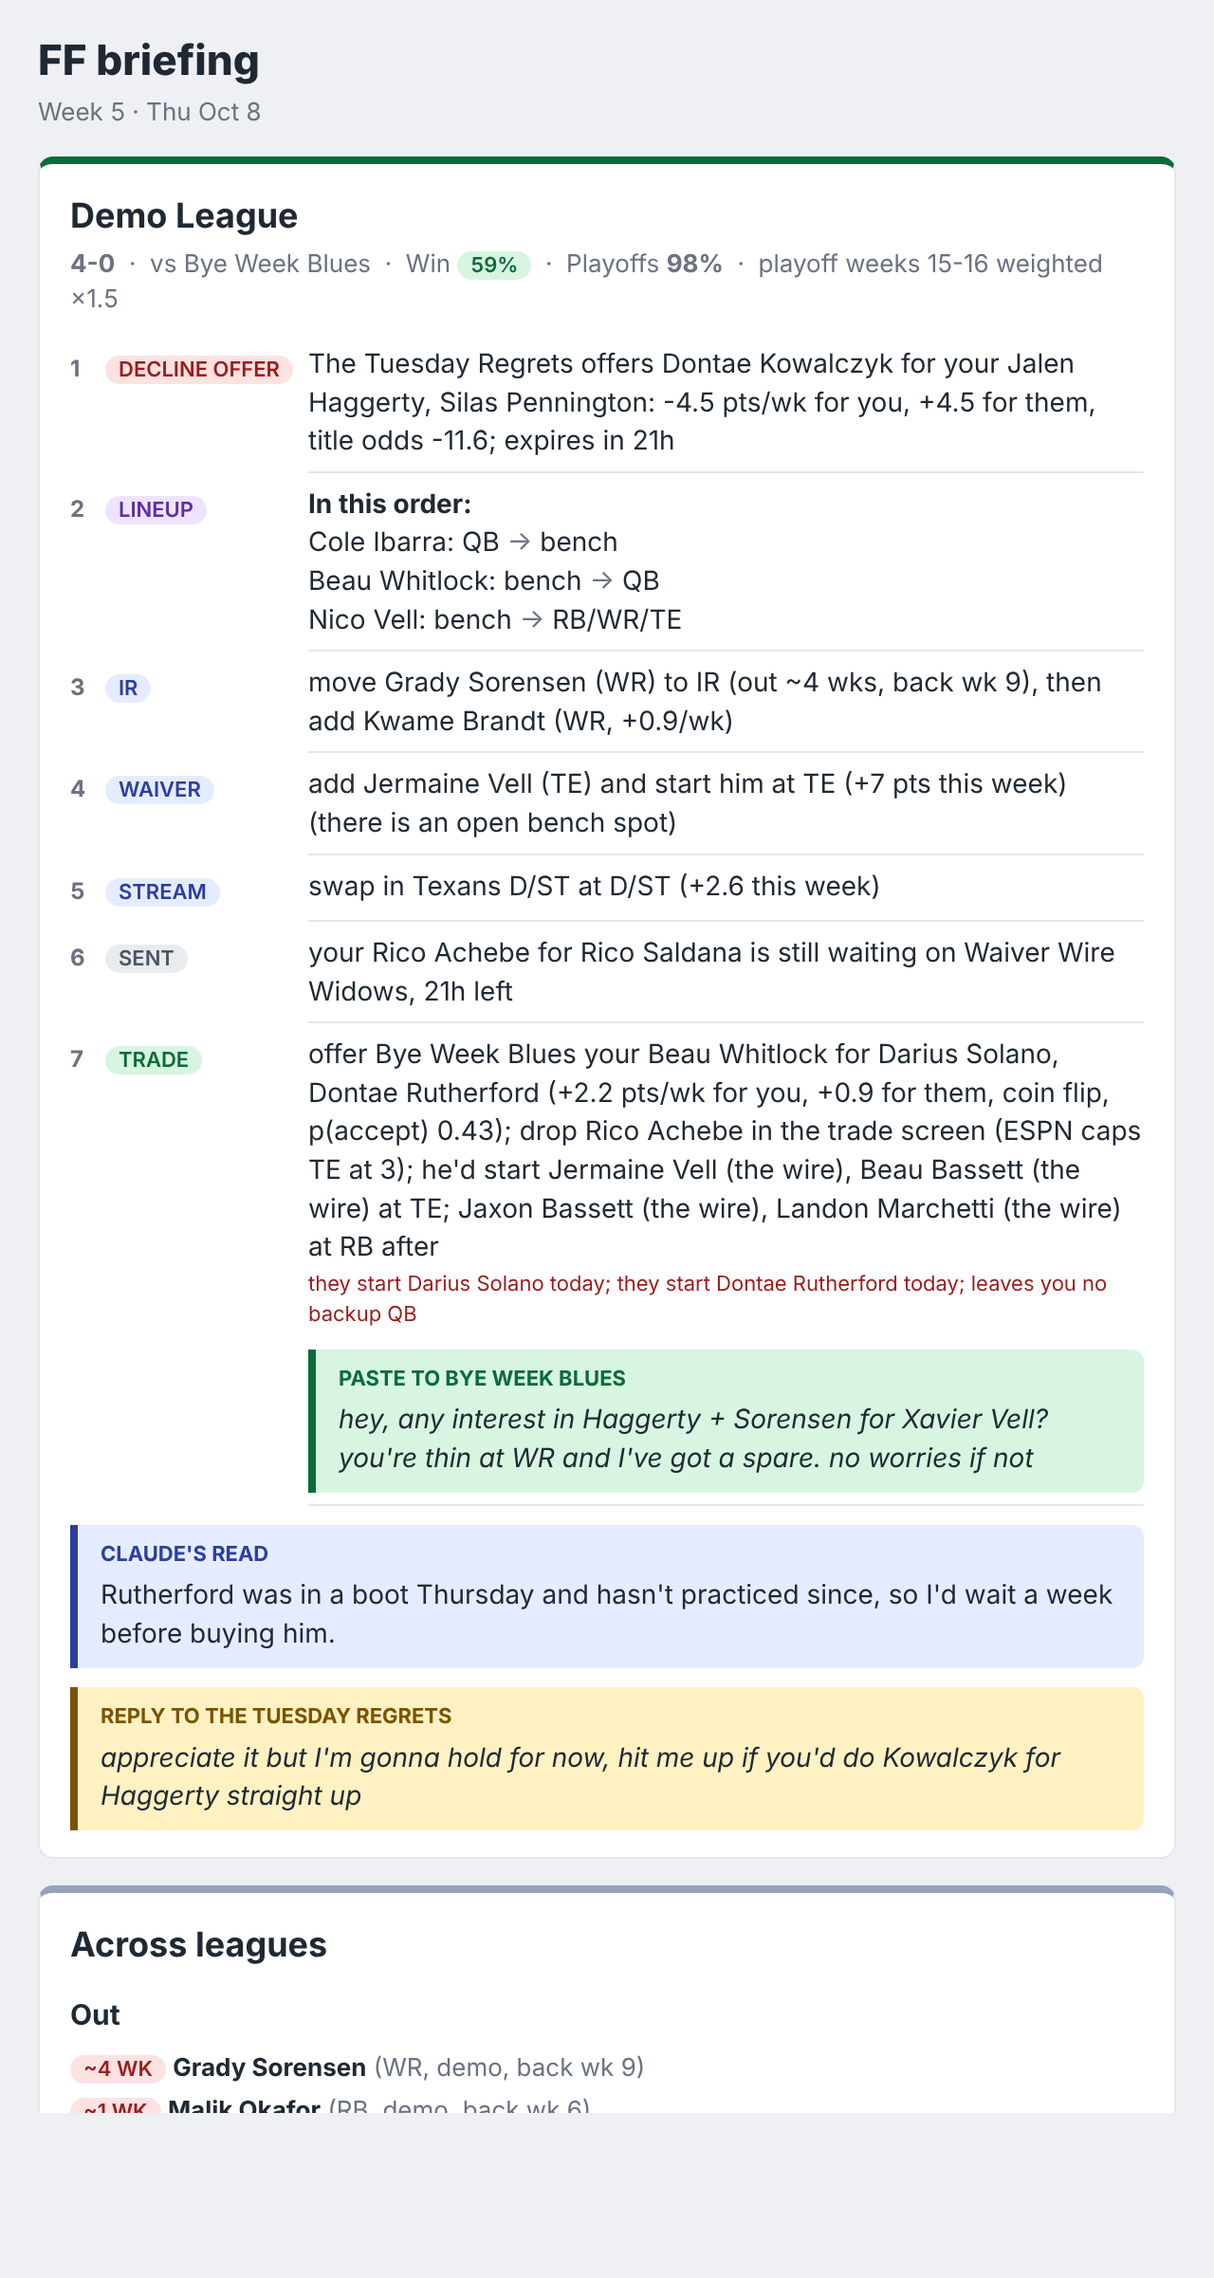
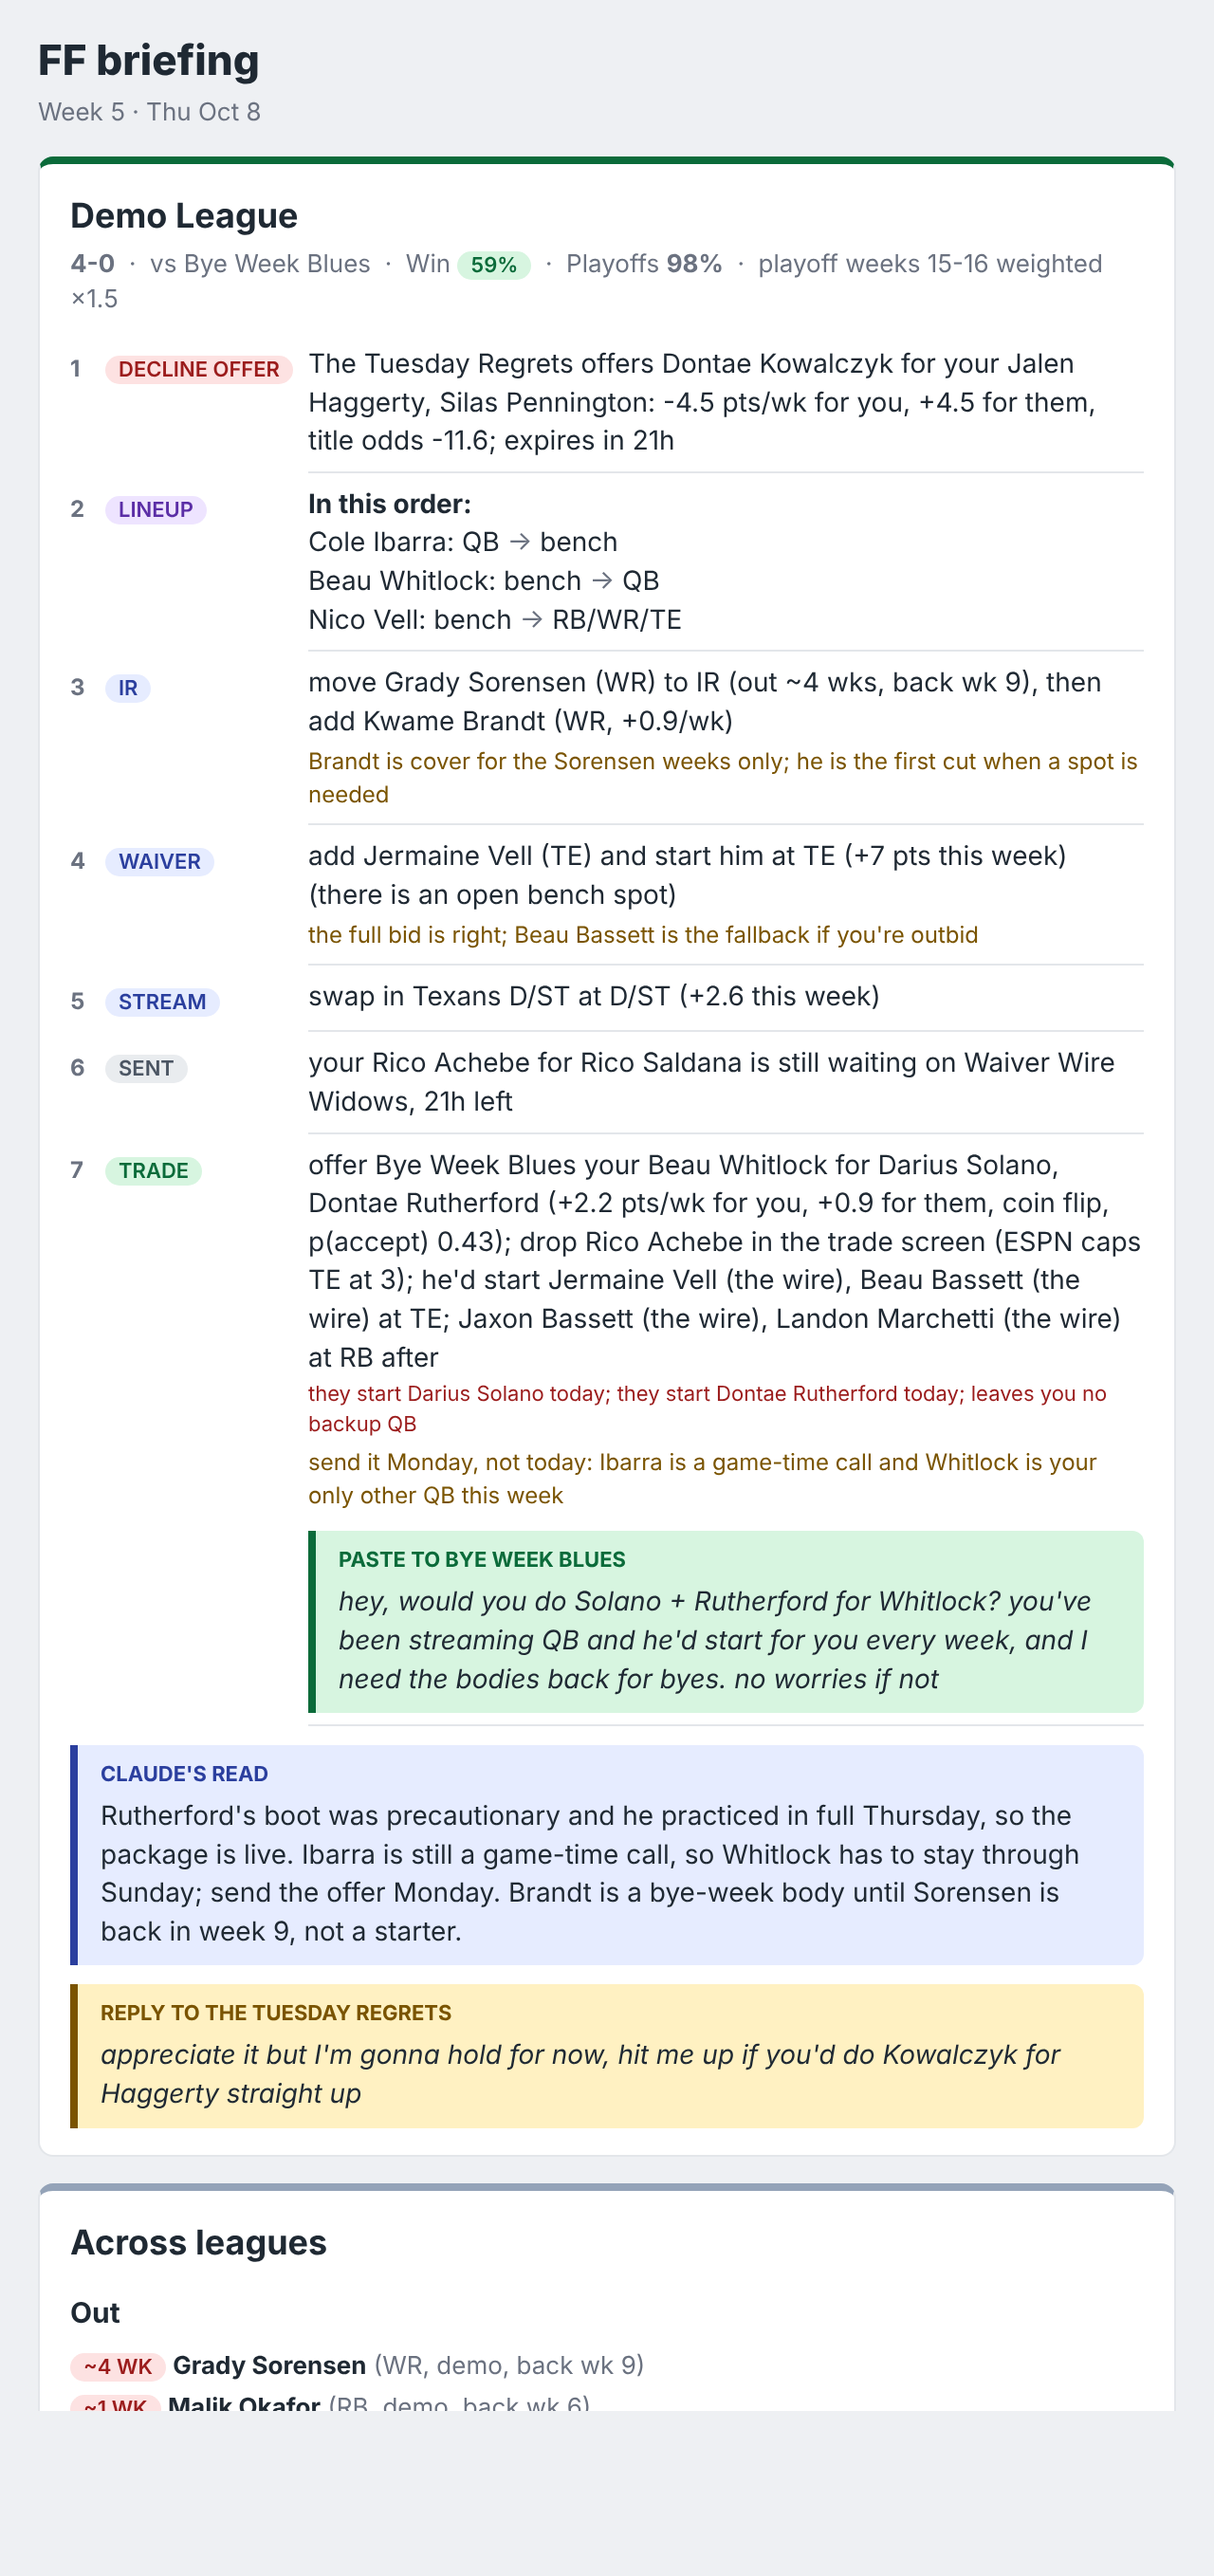
R2: examples/reads.json rules on the current demo card
`bash scripts/screenshots.sh` printed five `reads:` warnings from
`ff render-email`: four rulings keyed by rows no longer on the demo card
(`trade:dontae-rutherford`, `trade:kai-tremblay`, `trade:xavier-vell`,
`waiver:jaxon-bassett`: "no such row") and
"demo.items['trade:darius-solano-dontae-rutherford']: trade row has no
ruling (do / skip / amend)". The paste in the README screenshot offered
Haggerty + Sorensen for Xavier Vell, who is not on the card.

examples/reads.json now rules on the seven ids the current card prints
(offer, IR, waiver and the one trade row; `amend` on the trade so the
demo never writes to data/projlog), with a three-sentence read and a
paste that names Solano, Rutherford and Whitlock, all on the card.
examples/briefing.md, briefing.html, briefing-email.png and packet.json
are the script's output; incoming-terminal.svg did not change.
overrides.json notes were still current and are untouched.

Verified: the script re-run prints no `reads:` or `voice:` line;
tests/test_demo.py gains a test that `read_lint` and `voice_lint` on
examples/reads.json against the demo packet (same overrides, sims=100)
report nothing and every name in the paste and reply is on the card
(the old file fails it with 5 warnings); `uv run pytest -q` 364 passed,
`uv run ruff check` clean, `uv run ff briefing --demo --short` renders.
TODO.md: R2 removed, Docs section reads "(none open)".

Claude-Session: https://claude.ai/code/session_01U7NMZvvFv4gTqTgxxrxF3J

Changed region(s): [[0.0312, 0.0, 0.9688, 0.9367]]

diff --git a/examples/briefing.html b/examples/briefing.html
@@ -4,19 +4,22 @@
 <div style="color:#6b7280;font-size:13px;margin-top:3px"><b>4-0</b> &nbsp;·&nbsp; vs Bye Week Blues &nbsp;·&nbsp; Win <span style="padding:1px 7px;border-radius:9px;white-space:nowrap;font-size:11px;font-weight:600;background:#d7f5e0;color:#0b6b3a">59%</span> &nbsp;·&nbsp; Playoffs <b>98%</b> &nbsp;·&nbsp; playoff weeks 15-16 weighted ×1.5</div>
 <table width="100%" cellpadding="0" cellspacing="0" border="0" style="margin-top:8px"><tr><td valign="top" width="1" style="padding:6px 8px 6px 0;white-space:nowrap"><span style="display:inline-block;min-width:14px;color:#6b7280;font-size:12px;font-weight:700">1</span> <span style="padding:1px 7px;border-radius:9px;white-space:nowrap;font-size:11px;font-weight:600;background:#fde2e2;color:#9b1c1c">DECLINE OFFER</span></td><td valign="top" style="padding:6px 0;font-size:14px;border-bottom:1px solid #e3e6ea">The Tuesday Regrets offers Dontae Kowalczyk for your Jalen Haggerty, Silas Pennington: -4.5 pts/wk for you, +4.5 for them, title odds -11.6; expires in 21h</td></tr>
 <tr><td valign="top" width="1" style="padding:6px 8px 6px 0;white-space:nowrap"><span style="display:inline-block;min-width:14px;color:#6b7280;font-size:12px;font-weight:700">2</span> <span style="padding:1px 7px;border-radius:9px;white-space:nowrap;font-size:11px;font-weight:600;background:#eee4ff;color:#5b2ea6">LINEUP</span></td><td valign="top" style="padding:6px 0;font-size:14px;border-bottom:1px solid #e3e6ea"><b>In this order:</b><br>Cole Ibarra: QB <span style="color:#6b7280">→</span> bench<br>Beau Whitlock: bench <span style="color:#6b7280">→</span> QB<br>Nico Vell: bench <span style="color:#6b7280">→</span> RB/WR/TE</td></tr>
-<tr><td valign="top" width="1" style="padding:6px 8px 6px 0;white-space:nowrap"><span style="display:inline-block;min-width:14px;color:#6b7280;font-size:12px;font-weight:700">3</span> <span style="padding:1px 7px;border-radius:9px;white-space:nowrap;font-size:11px;font-weight:600;background:#e6ecff;color:#2b3f9e">IR</span></td><td valign="top" style="padding:6px 0;font-size:14px;border-bottom:1px solid #e3e6ea">move Grady Sorensen (WR) to IR (out ~4 wks, back wk 9), then add Kwame Brandt (WR, +0.9/wk)</td></tr>
-<tr><td valign="top" width="1" style="padding:6px 8px 6px 0;white-space:nowrap"><span style="display:inline-block;min-width:14px;color:#6b7280;font-size:12px;font-weight:700">4</span> <span style="padding:1px 7px;border-radius:9px;white-space:nowrap;font-size:11px;font-weight:600;background:#e6ecff;color:#2b3f9e">WAIVER</span></td><td valign="top" style="padding:6px 0;font-size:14px;border-bottom:1px solid #e3e6ea">add Jermaine Vell (TE) and start him at TE (+7 pts this week) (there is an open bench spot)</td></tr>
+<tr><td valign="top" width="1" style="padding:6px 8px 6px 0;white-space:nowrap"><span style="display:inline-block;min-width:14px;color:#6b7280;font-size:12px;font-weight:700">3</span> <span style="padding:1px 7px;border-radius:9px;white-space:nowrap;font-size:11px;font-weight:600;background:#e6ecff;color:#2b3f9e">IR</span></td><td valign="top" style="padding:6px 0;font-size:14px;border-bottom:1px solid #e3e6ea">move Grady Sorensen (WR) to IR (out ~4 wks, back wk 9), then add Kwame Brandt (WR, +0.9/wk)<div style="color:#7a5400;font-size:12px;margin-top:3px">Brandt is cover for the Sorensen weeks only; he is the first cut when a spot is needed</div>
+</td></tr>
+<tr><td valign="top" width="1" style="padding:6px 8px 6px 0;white-space:nowrap"><span style="display:inline-block;min-width:14px;color:#6b7280;font-size:12px;font-weight:700">4</span> <span style="padding:1px 7px;border-radius:9px;white-space:nowrap;font-size:11px;font-weight:600;background:#e6ecff;color:#2b3f9e">WAIVER</span></td><td valign="top" style="padding:6px 0;font-size:14px;border-bottom:1px solid #e3e6ea">add Jermaine Vell (TE) and start him at TE (+7 pts this week) (there is an open bench spot)<div style="color:#7a5400;font-size:12px;margin-top:3px">the full bid is right; Beau Bassett is the fallback if you&#x27;re outbid</div>
+</td></tr>
 <tr><td valign="top" width="1" style="padding:6px 8px 6px 0;white-space:nowrap"><span style="display:inline-block;min-width:14px;color:#6b7280;font-size:12px;font-weight:700">5</span> <span style="padding:1px 7px;border-radius:9px;white-space:nowrap;font-size:11px;font-weight:600;background:#e6ecff;color:#2b3f9e">STREAM</span></td><td valign="top" style="padding:6px 0;font-size:14px;border-bottom:1px solid #e3e6ea">swap in Texans D/ST at D/ST (+2.6 this week)</td></tr>
 <tr><td valign="top" width="1" style="padding:6px 8px 6px 0;white-space:nowrap"><span style="display:inline-block;min-width:14px;color:#6b7280;font-size:12px;font-weight:700">6</span> <span style="padding:1px 7px;border-radius:9px;white-space:nowrap;font-size:11px;font-weight:600;background:#e9ecef;color:#4b5563">SENT</span></td><td valign="top" style="padding:6px 0;font-size:14px;border-bottom:1px solid #e3e6ea">your Rico Achebe for Rico Saldana is still waiting on Waiver Wire Widows, 21h left</td></tr>
 <tr><td valign="top" width="1" style="padding:6px 8px 6px 0;white-space:nowrap"><span style="display:inline-block;min-width:14px;color:#6b7280;font-size:12px;font-weight:700">7</span> <span style="padding:1px 7px;border-radius:9px;white-space:nowrap;font-size:11px;font-weight:600;background:#d7f5e0;color:#0b6b3a">TRADE</span></td><td valign="top" style="padding:6px 0;font-size:14px;border-bottom:1px solid #e3e6ea">offer Bye Week Blues your Beau Whitlock for Darius Solano, Dontae Rutherford (+2.2 pts/wk for you, +0.9 for them, coin flip, p(accept) 0.43); drop Rico Achebe in the trade screen (ESPN caps TE at 3); he&#x27;d start Jermaine Vell (the wire), Beau Bassett (the wire) at TE; Jaxon Bassett (the wire), Landon Marchetti (the wire) at RB after<div style="color:#9b1c1c;font-size:11px;margin-top:2px">they start Darius Solano today; they start Dontae Rutherford today; leaves you no backup QB</div>
+<div style="color:#7a5400;font-size:12px;margin-top:3px">send it Monday, not today: Ibarra is a game-time call and Whitlock is your only other QB this week</div>
 <table width="100%" cellpadding="0" cellspacing="0" border="0" style="margin:10px 0 0"><tr><td bgcolor="#d7f5e0" style="border-left:4px solid #0b6b3a;border-radius:0 6px 6px 0;padding:8px 12px"><div style="font-size:11px;font-weight:700;color:#0b6b3a;text-transform:uppercase">Paste to Bye Week Blues</div>
-<div style="font-size:14px;margin-top:3px;font-style:italic">hey, any interest in Haggerty + Sorensen for Xavier Vell? you&#x27;re thin at WR and I&#x27;ve got a spare. no worries if not</div>
+<div style="font-size:14px;margin-top:3px;font-style:italic">hey, would you do Solano + Rutherford for Whitlock? you&#x27;ve been streaming QB and he&#x27;d start for you every week, and I need the bodies back for byes. no worries if not</div>
 </td></tr>
 </table>
 </td></tr>
 </table>
 <table width="100%" cellpadding="0" cellspacing="0" border="0" style="margin:10px 0 0"><tr><td bgcolor="#e6ecff" style="border-left:4px solid #2b3f9e;border-radius:0 6px 6px 0;padding:8px 12px"><div style="font-size:11px;font-weight:700;color:#2b3f9e;text-transform:uppercase">Claude&#x27;s read</div>
-<div style="font-size:14px;margin-top:3px">Rutherford was in a boot Thursday and hasn&#x27;t practiced since, so I&#x27;d wait a week before buying him.</div>
+<div style="font-size:14px;margin-top:3px">Rutherford&#x27;s boot was precautionary and he practiced in full Thursday, so the package is live. Ibarra is still a game-time call, so Whitlock has to stay through Sunday; send the offer Monday. Brandt is a bye-week body until Sorensen is back in week 9, not a starter.</div>
 </td></tr>
 </table>
 <table width="100%" cellpadding="0" cellspacing="0" border="0" style="margin:10px 0 0"><tr><td bgcolor="#fff1c2" style="border-left:4px solid #7a5400;border-radius:0 6px 6px 0;padding:8px 12px"><div style="font-size:11px;font-weight:700;color:#7a5400;text-transform:uppercase">Reply to The Tuesday Regrets</div>
@@ -31,7 +34,7 @@
 </td></tr>
 </table>
 <div style="color:#6b7280;font-size:11px;margin-top:4px">Every roster, waiver and odds table is in the plain-text version of this email.</div>
-<div style="color:#6b7280;font-size:11px;margin-top:4px">Generated 2026-10-08 19:53 · numbers from ff, read from Claude · read-only against ESPN</div>
+<div style="color:#6b7280;font-size:11px;margin-top:4px">Generated 2026-10-08 20:02 · numbers from ff, read from Claude · read-only against ESPN</div>
 </td></tr>
 </table>
 </td></tr>

diff --git a/tests/test_demo.py b/tests/test_demo.py
@@ -1,6 +1,7 @@
 """`ff briefing --demo` and friends run end to end with no credentials, no leagues.toml and no network."""
 import json
 import re
+from pathlib import Path
 
 from typer.testing import CliRunner
 
@@ -40,3 +41,24 @@ def test_demo_overrides(tmp_path):
     p = json.load(open(r.output.strip()))
     me = next(x for x in p["leagues"][0]["roster"] if x["espn_id"] == 100)
     assert me["p_zero"] == 1.0 and me["sources"]["override_note"] == "ruled out (demo)"
+
+
+EXAMPLES = Path(__file__).resolve().parents[1] / "examples"
+
+
+def test_examples_reads_rule_on_the_current_demo_card():
+    """`examples/reads.json` is the one hand-written input in examples/; `scripts/screenshots.sh` renders it against the
+    demo packet. It went stale once (TODO R2: the scan moved to a new package, so the trade row was unruled and the
+    paste named a player no longer on the card). Same overrides as the script, so the row ids are the ones it renders."""
+    from ff import demo, report
+    reads = json.load(open(EXAMPLES / "reads.json"))
+    p = demo.build_packet(str(EXAMPLES / "overrides.json"), sims=100, write=False)
+    assert report.read_lint(p, reads) == []
+    assert report.voice_lint(reads) == []
+    rows = report.todos(p["leagues"][0])
+    assert any(x["kind"] == "trade" for x in rows), "the demo card should carry a trade row for the example to rule on"
+    assert len(reads["demo"]["items"]) >= 2, "the example should show more than one ruling"
+    card = report.action_card(p, reads, show_ids=False)
+    for field in ("paste", "reply"):
+        for name in re.findall(r"\b[A-Z][a-z]{2,}\b", reads["demo"][field]):
+            assert name in card, f"reads.json {field} names {name}, who is not on the card"

diff --git a/examples/briefing.md b/examples/briefing.md
@@ -5,14 +5,14 @@ _4-0 · vs Bye Week Blues · win 59% · playoffs 97.6% · title 21.4%_
 
 - **Incoming offer (DECLINE):** The Tuesday Regrets offers Dontae Kowalczyk for your Jalen Haggerty, Silas Pennington: -4.5 pts/wk for you, +4.5 for them, title odds -11.6; expires in 21h
 - **Lineup (in order):** Cole Ibarra: QB → bench · Beau Whitlock: bench → QB · Nico Vell: bench → RB/WR/TE
-- **IR:** move Grady Sorensen (WR) to IR (out ~4 wks, back wk 9), then add Kwame Brandt (WR, +0.9/wk)
-- **Waiver:** add Jermaine Vell (TE) and start him at TE (+7 pts this week) (there is an open bench spot)
+- **IR:** move Grady Sorensen (WR) to IR (out ~4 wks, back wk 9), then add Kwame Brandt (WR, +0.9/wk) — **note:** Brandt is cover for the Sorensen weeks only; he is the first cut when a spot is needed
+- **Waiver:** add Jermaine Vell (TE) and start him at TE (+7 pts this week) (there is an open bench spot) — **note:** the full bid is right; Beau Bassett is the fallback if you're outbid
 - **Stream:** swap in Texans D/ST at D/ST (+2.6 this week)
 - **Already sent:** your Rico Achebe for Rico Saldana is still waiting on Waiver Wire Widows, 21h left
-- **Trade (worth sending):** offer Bye Week Blues your Beau Whitlock for Darius Solano, Dontae Rutherford (+2.2 pts/wk for you, +0.9 for them, coin flip, p(accept) 0.43); drop Rico Achebe in the trade screen (ESPN caps TE at 3); he'd start Jermaine Vell (the wire), Beau Bassett (the wire) at TE; Jaxon Bassett (the wire), Landon Marchetti (the wire) at RB after — they start Darius Solano today; they start Dontae Rutherford today; leaves you no backup QB
+- **Trade (worth sending):** offer Bye Week Blues your Beau Whitlock for Darius Solano, Dontae Rutherford (+2.2 pts/wk for you, +0.9 for them, coin flip, p(accept) 0.43); drop Rico Achebe in the trade screen (ESPN caps TE at 3); he'd start Jermaine Vell (the wire), Beau Bassett (the wire) at TE; Jaxon Bassett (the wire), Landon Marchetti (the wire) at RB after — they start Darius Solano today; they start Dontae Rutherford today; leaves you no backup QB — **note:** send it Monday, not today: Ibarra is a game-time call and Whitlock is your only other QB this week
 
-**Claude's read:** Rutherford was in a boot Thursday and hasn't practiced since, so I'd wait a week before buying him.  
-**Paste to Bye Week Blues:** "hey, any interest in Haggerty + Sorensen for Xavier Vell? you're thin at WR and I've got a spare. no worries if not"  
+**Claude's read:** Rutherford's boot was precautionary and he practiced in full Thursday, so the package is live. Ibarra is still a game-time call, so Whitlock has to stay through Sunday; send the offer Monday. Brandt is a bye-week body until Sorensen is back in week 9, not a starter.  
+**Paste to Bye Week Blues:** "hey, would you do Solano + Rutherford for Whitlock? you've been streaming QB and he'd start for you every week, and I need the bodies back for byes. no worries if not"  
 **Reply to The Tuesday Regrets:** "appreciate it but I'm gonna hold for now, hit me up if you'd do Kowalczyk for Haggerty straight up"  
 
 **Out:** Grady Sorensen out ~4 wks, back wk 9 (demo); Malik Okafor out ~1 wk, back wk 6 (demo)  

diff --git a/TODO.md b/TODO.md
@@ -69,9 +69,4 @@ Rules that hold for every item: read-only against ESPN; code owns numbers, Claud
 
 ## Docs
 
-- [ ] **R2 (XS). `examples/reads.json` rules on the September card.** `scripts/screenshots.sh` regenerated
-  `examples/` on 2026-10-08 (R1) and the scan now proposes a different package (`trade:darius-solano-dontae-rutherford`),
-  so `render-email` warns that the trade row is unruled and the paste in the README screenshot names Xavier Vell,
-  who is no longer on the card. Rewrite the `items`, `read` and `paste` in `examples/reads.json` (and `overrides.json`
-  if a note is stale) against the current `examples/briefing.md` row ids, re-run the script, and make the lint silent.
-  Done when: `scripts/screenshots.sh` prints no `reads:` warning and every name in the paste is on the card.
+(none open)
